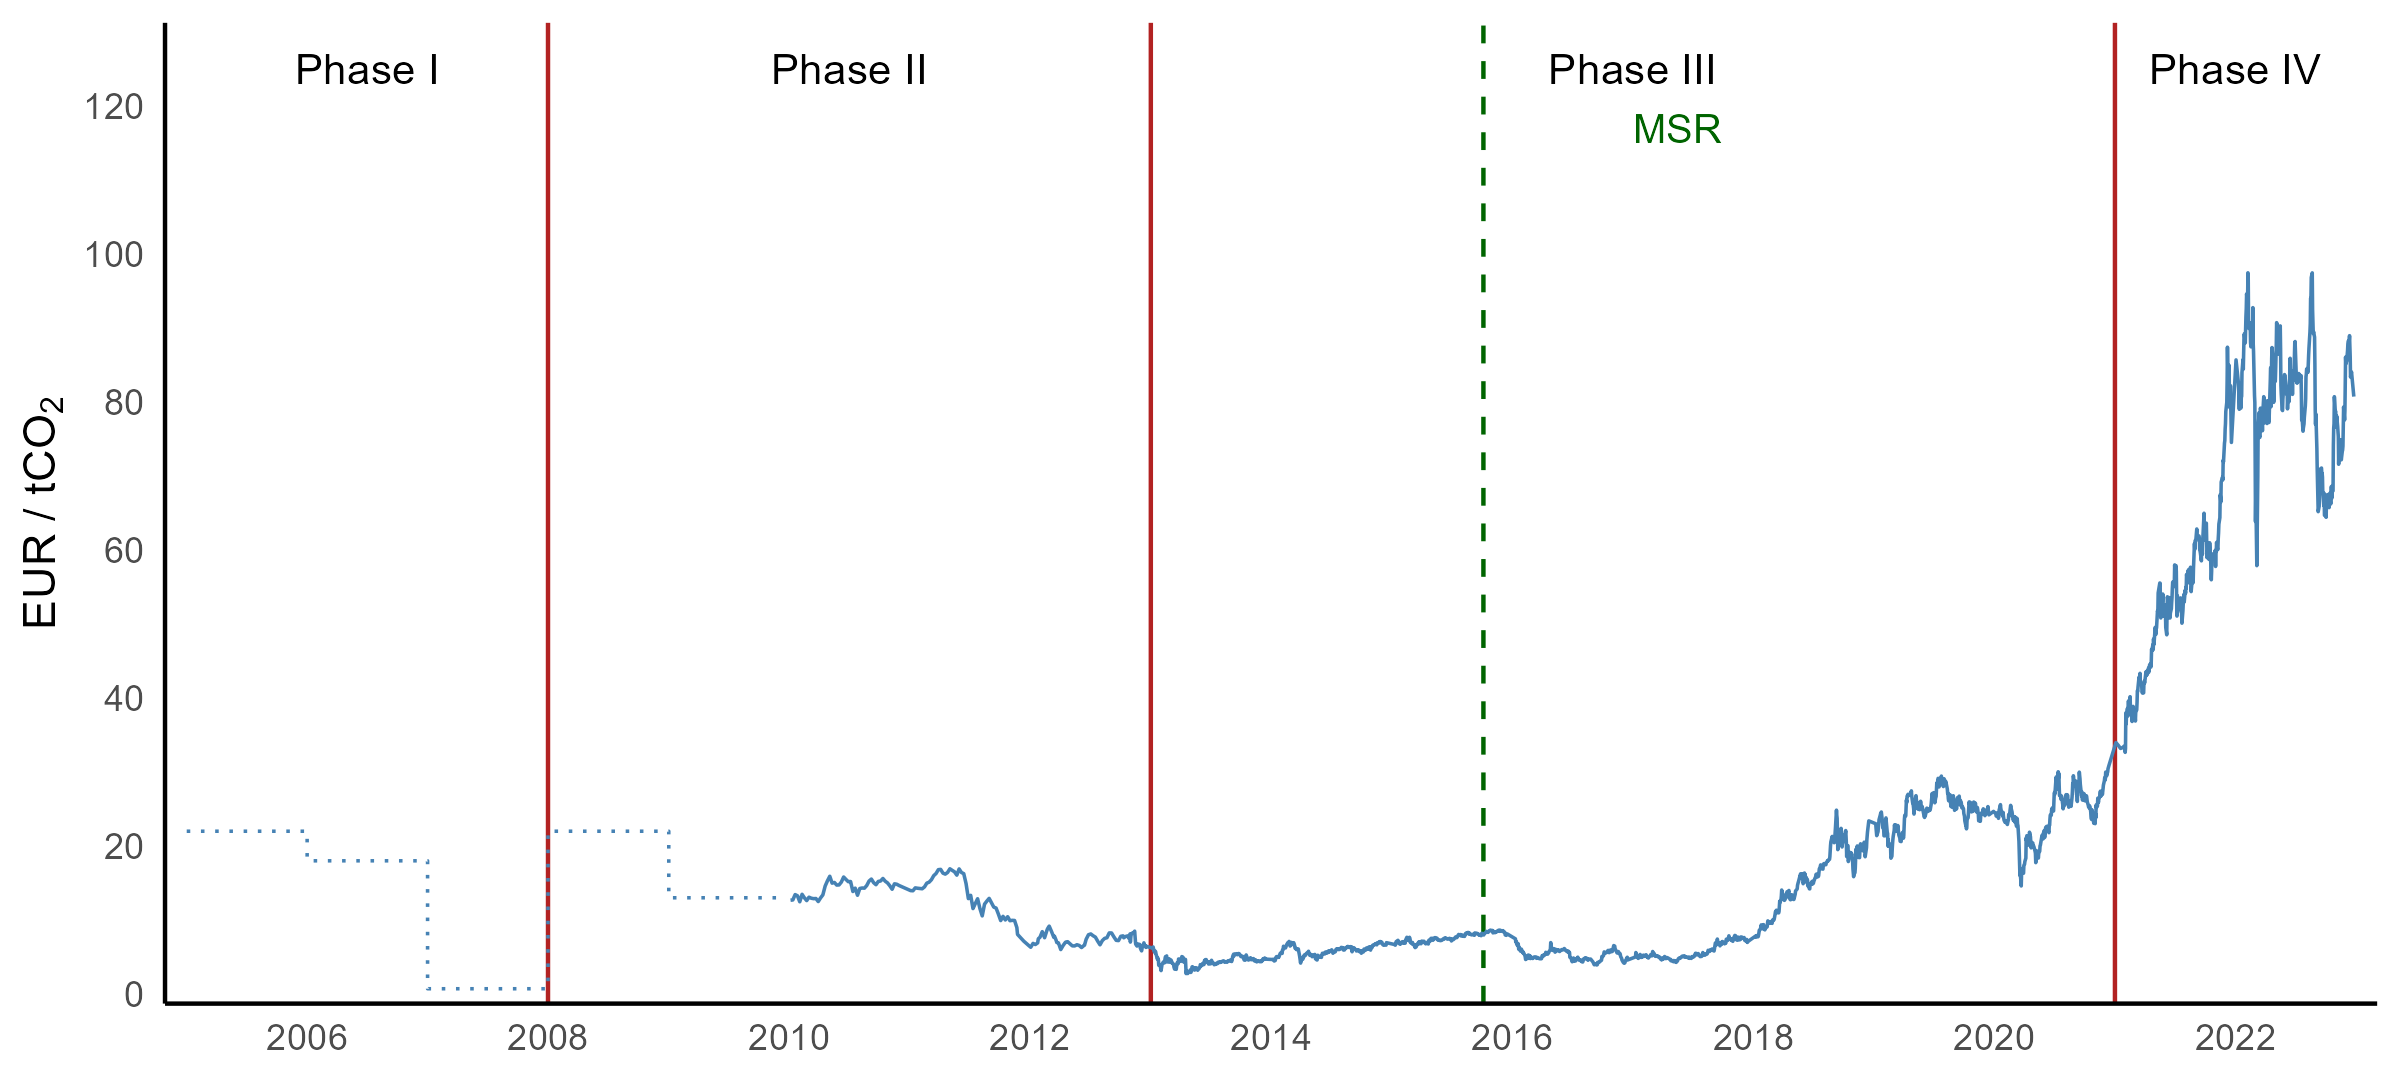
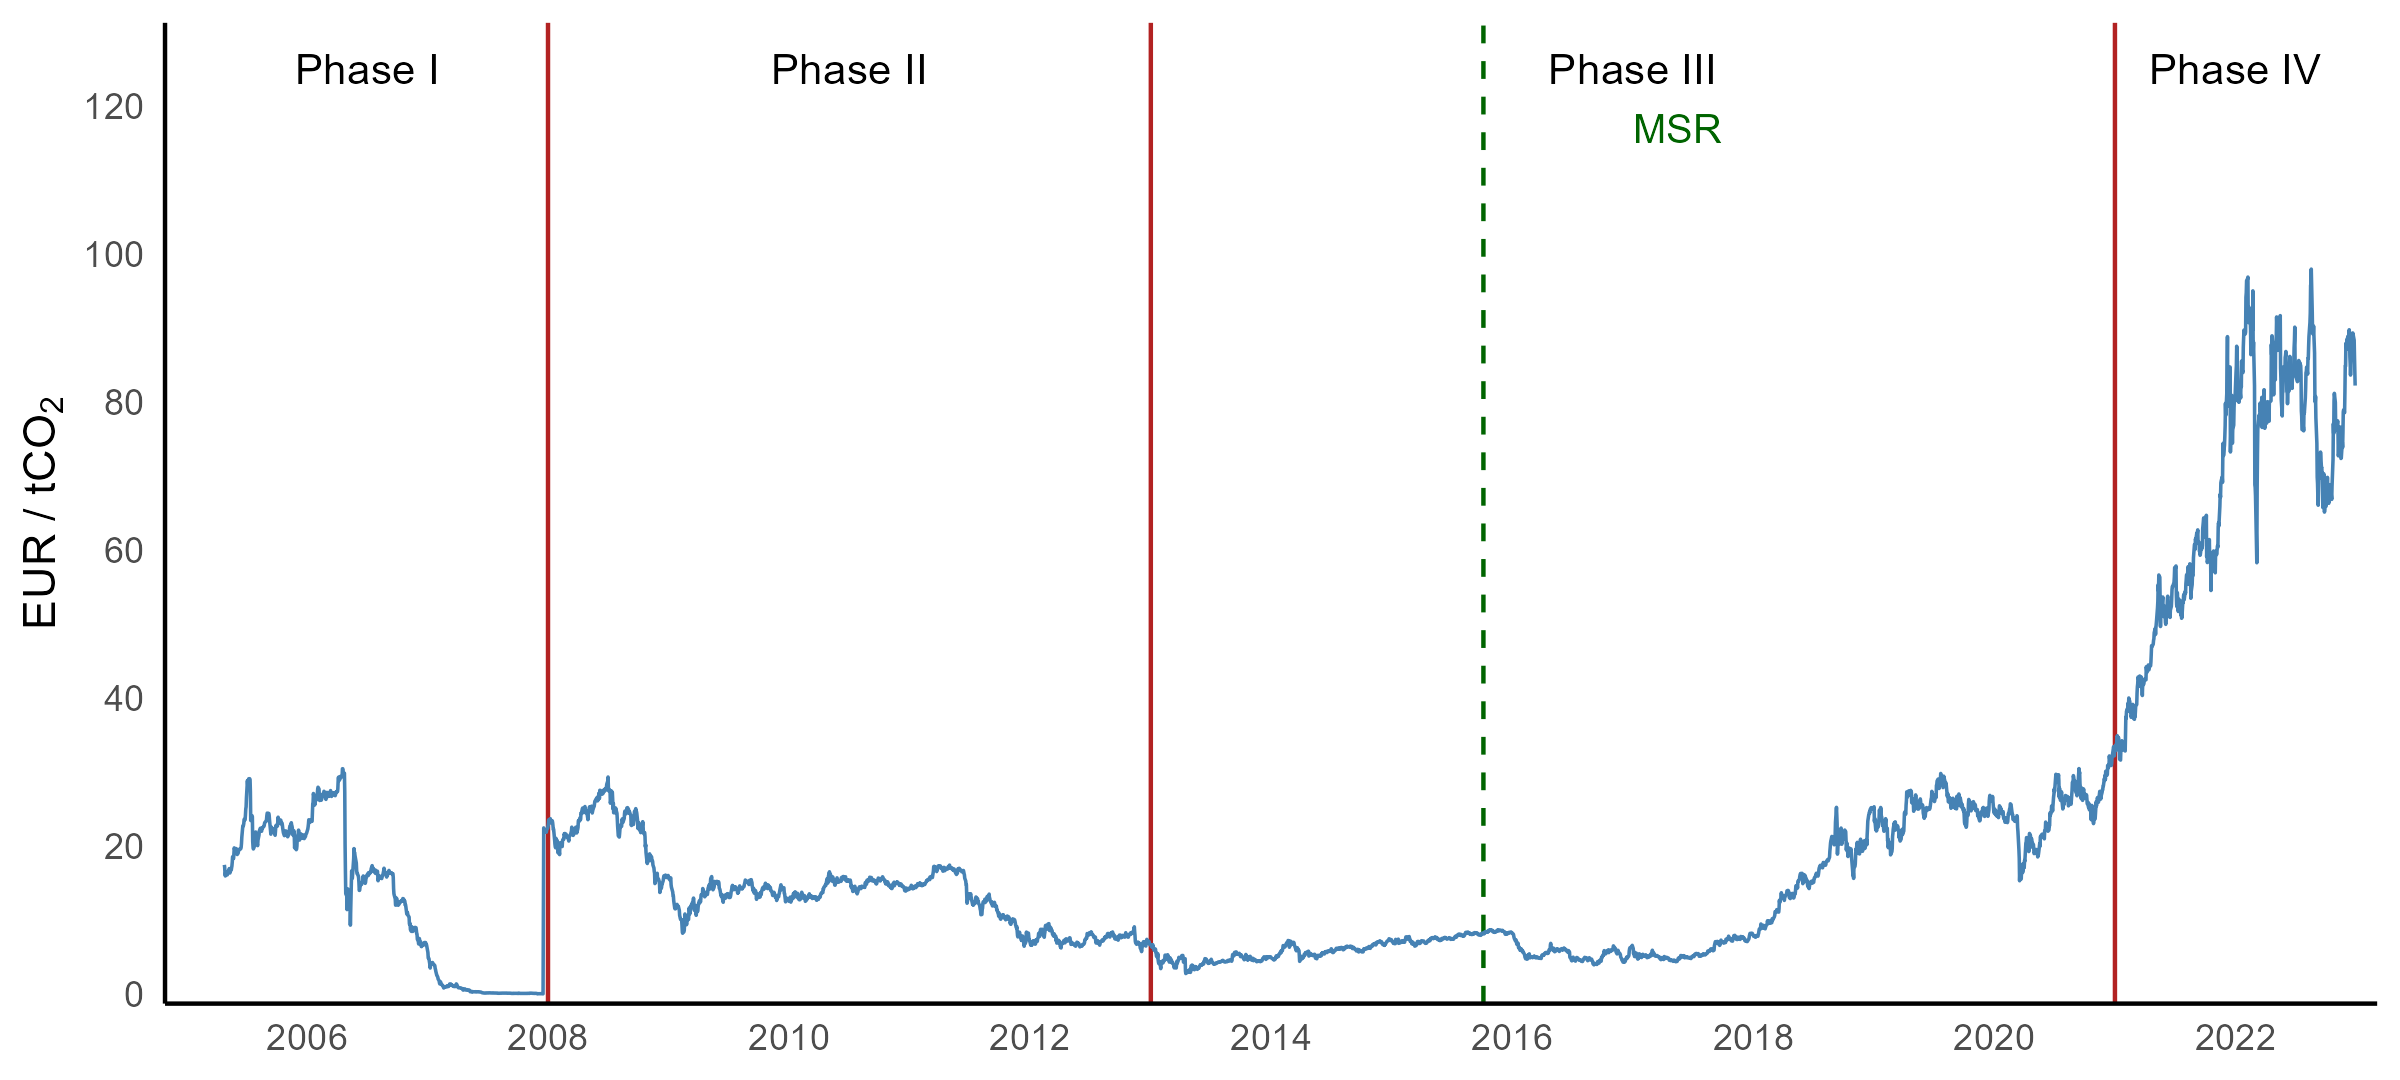
analysis: extend Figure 1 EUA price series to daily 2005+; bump paper
Rewrite phase3_eua_price_timeseries_figure.R to read the new daily
front-year EUA futures CSV (Investing.com export, same Refinitiv LECEZ
convention used by Känzig 2023; saved under \${RAW_DATA}). Drop the
ICAP-specific parser and the 2005-2009 annual-step fall-back (no longer
needed). Series now covers 2005-04-25 to 2022-12-30 with no gaps.
Verified historical milestones on the regenerated series: Phase I peak
EUR 30.45 (Apr 2006), May 2006 trough EUR 9.30, 2007 mean EUR 1.28
(near zero post-collapse), Phase II 2008-H1 mean EUR 23.60, 2009-Q1
trough EUR 8.20, 2022 peak EUR 98.01.

Closes the "Daily EUA price 2005-2009 acquisition" TODO item.

diff --git a/TODO.md b/TODO.md
@@ -195,23 +195,9 @@ This bears on the §4 paper claim ($\sigma$ mapping from sector pass-through) an
 - [ ] Update §4 prose in [paper/leakage_within_across/sections/passthrough.tex](paper/leakage_within_across/sections/passthrough.tex) with the verified magnitudes (currently quotes γ_12 = 1.22 from the new run; verify this is the right scale).
 - [ ] Re-derive the implied σ at the post-period EUA path under the verified scale; confirm the §5.1 σ ≈ 1 anchor still holds.
 
-### Daily EUA price 2005–2009 acquisition
+### Daily EUA price 2005–2009 acquisition — DONE 2026-05-08
 
-The current §3 EUA price figure ([phase3_eua_price_timeseries_figure.R](analysis/phase3_eua_price_timeseries_figure.R)) shows a dotted-line annual fall-back for 2005–2009 because ICAP's public CSV leaves the `Primary Market` price column blank for Phase I and most of Phase II. We confirmed (2026-05-07) that the Bayer & Aklin (2020) Harvard Dataverse only contains country-year emissions data, not prices. Käenzig (2023, AER) noted his daily EUA series came from **Refinitiv Datastream**, which is not publicly redistributable but is accessible via institutional subscriptions.
-
-Path of least resistance — ask Bijnens (NBB) to export from Refinitiv:
-
-- [ ] **Ask co-author Bijnens to pull daily EUA from NBB's Datastream / Refinitiv Workspace subscription.** NBB is a heavy Refinitiv user, so this should be a one-Excel-export ask. Specifically request the **ECX EUA front-month continuous futures** series, daily settlement price, EUR/tCO₂, 2005-04-22 to end of sample. Common Datastream codes: `LECEZ` (ECX EUA continuous front month), `EEX EUA SP` (ICE Endex spot), or `ECXEUSP` (legacy ECX spot). Bijnens may know a different convention used by NBB; what matters is that the series is the same one Känzig used (front-month ECX/ICE futures continuous).
-- [ ] Fall-back if Bijnens cannot share: **WRDS Datastream gateway** through Northwestern's WRDS subscription (https://wrds-www.wharton.upenn.edu). Verify with Northwestern Library / Kellogg Research Computing whether your WRDS account has Datastream access enabled; if not, request it. Then run the same query.
-- [ ] Save under `${RAW_DATA}/eua_daily_datastream.csv` (local-1).
-- [ ] Update [phase3_eua_price_timeseries_figure.R](analysis/phase3_eua_price_timeseries_figure.R): replace the annual stepwise fall-back (`early_steps`) with the daily 2005–2009 series and concatenate with ICAP daily 2010+ (or replace ICAP entirely if Datastream covers the full window — likely cleaner).
-- [ ] Verify the regenerated figure reproduces well-known historical milestones: (a) Phase I peak ~€30 in April 2006, (b) crash to ~€10 within days of the May 2006 compliance announcement, (c) drift to near zero through 2007, (d) Phase II reset to ~€22 in 2008, (e) financial-crisis pullback to ~€8 in early 2009.
-
-Free fall-backs if Datastream access is blocked on both Northwestern and NBB:
-
-- [ ] **Sandbag Carbon Pulse** historical archive (https://sandbag.org.uk) — daily back to ~2008; no Phase I.
-- [ ] **Hintermann (2010, JEEM)** "Allowance Price Drivers in the First Phase of the EU ETS" replication archive — Phase I daily because the paper studies Phase I price formation.
-- [ ] **Käenzig (2023, AER) replication archive** at https://www.openicpsr.org/openicpsr/project/183743/ — primary inputs to the VAR. Worth opening to check whether the daily EUA series is included alongside the CPShock surprises.
+Resolved via Investing.com export of the EUA continuous front-year futures contract (`${RAW_DATA}/European Union Carbon Permits Allowance (EUA) Yearly Futures Historical Data.csv`, daily 2005-04-25 onward, same Refinitiv-`LECEZ` series convention used by Känzig 2023). The figure script ([phase3_eua_price_timeseries_figure.R](analysis/phase3_eua_price_timeseries_figure.R)) was rewritten to read this CSV in place of ICAP+annual-step fallback. Verified historical milestones on the regenerated series: Phase I peak €30.45 (Apr 2006); May 2006 trough €9.30; 2007 mean €1.28 (≈0); Phase II 2008-H1 mean €23.60; 2009-Q1 trough €8.20; 2022 peak €98.01. Caption in [shock_magnitude.tex](paper/leakage_within_across/sections/shock_magnitude.tex) updated.
 
 ---
 
